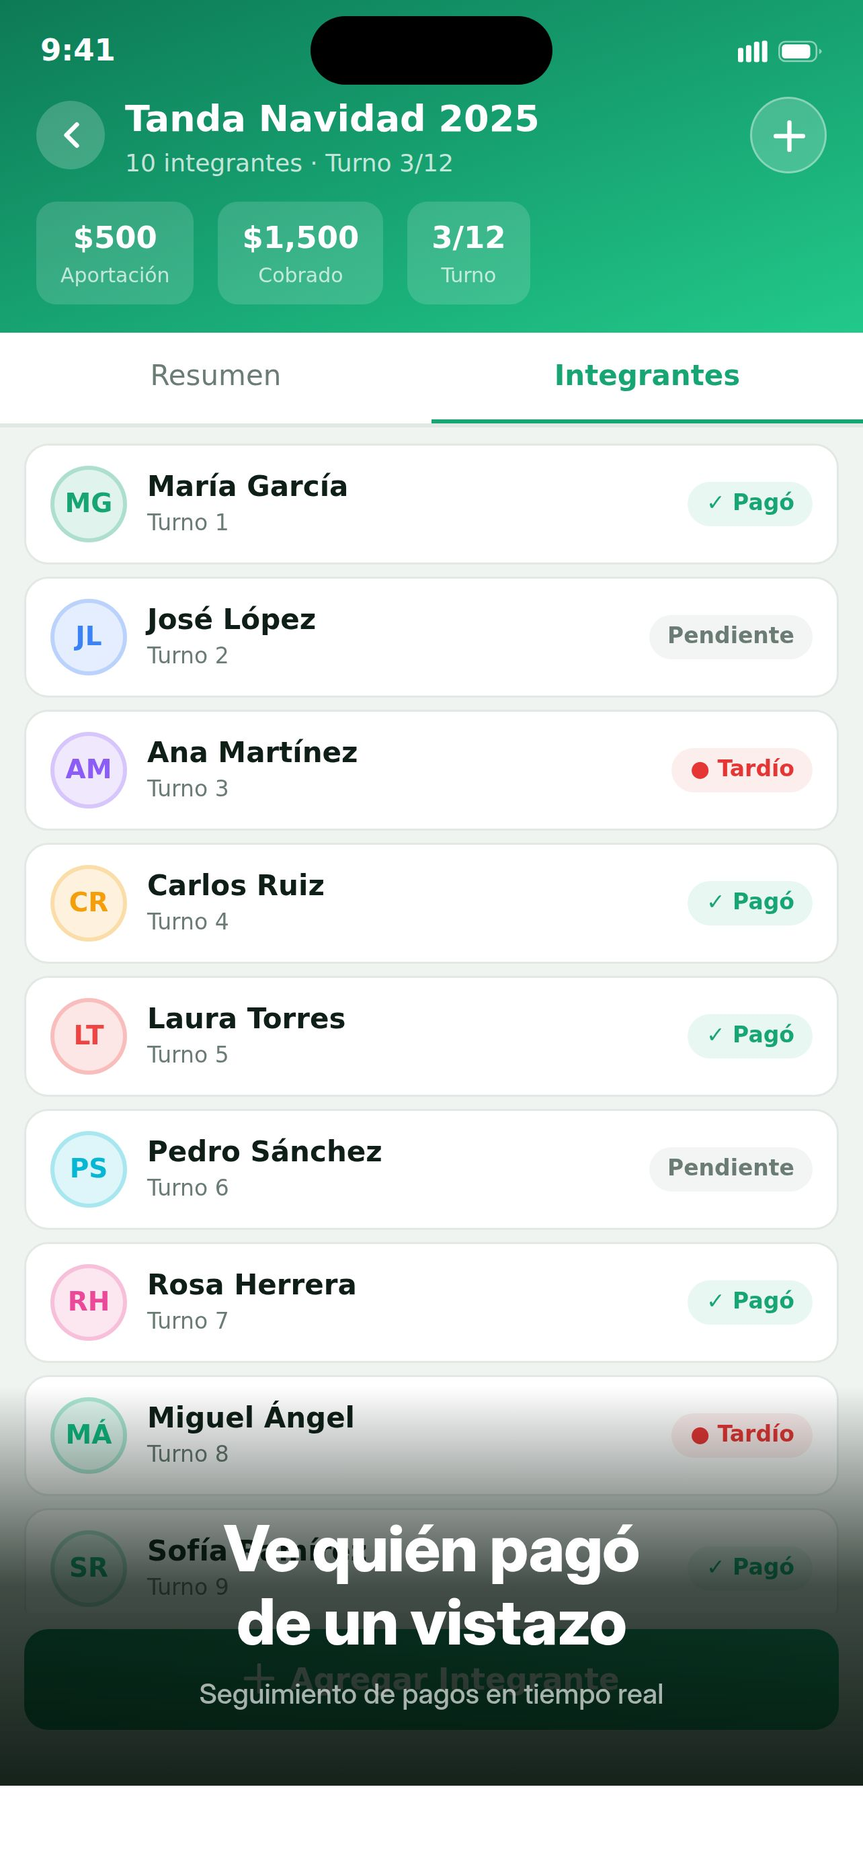
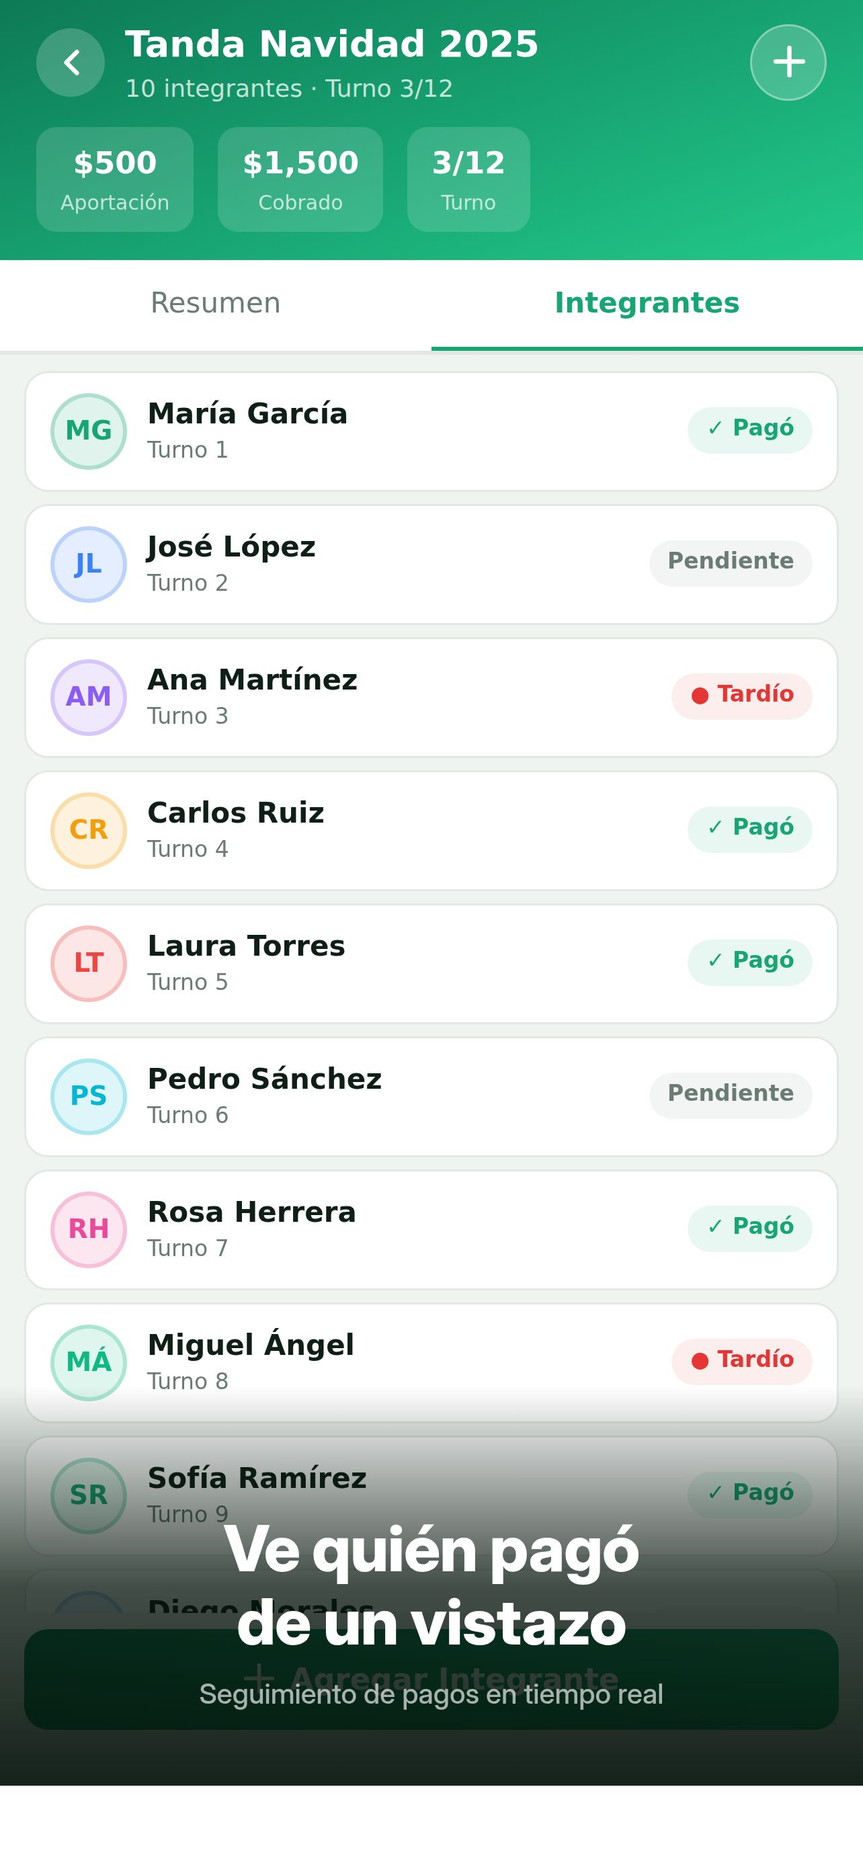
Fix app bugs and improve user account management and screenshots
Fixes a bug preventing "tanda" creation, updates screenshots to meet Apple's guidelines, and adds account deletion functionality.

Replit-Commit-Author: Agent
Replit-Commit-Session-Id: e019ea73-8e5f-4285-ade7-2ecf29f1a377
Replit-Commit-Checkpoint-Type: full_checkpoint
Replit-Commit-Event-Id: 5121498f-7e2a-498c-9c5b-404356310d39
Replit-Commit-Screenshot-Url: https://storage.googleapis.com/screenshot-production-us-central1/a28acc6e-3080-4341-9633-196d7060ff5c/e019ea73-8e5f-4285-ade7-2ecf29f1a377/ADmcMiI
Replit-Helium-Checkpoint-Created: true

diff --git a/artifacts/circletrack/app/(tabs)/settings.tsx b/artifacts/circletrack/app/(tabs)/settings.tsx
@@ -1,6 +1,6 @@
 import { useAuth, useUser } from "@clerk/clerk-expo";
 import { Ionicons } from "@expo/vector-icons";
-import React from "react";
+import React, { useState } from "react";
 import {
   Alert,
   Platform,
@@ -19,8 +19,9 @@ export default function SettingsScreen() {
   const colors = useColors();
   const insets = useSafeAreaInsets();
   const { lang, setLang, t } = useLang();
-  const { signOut } = useAuth();
+  const { signOut, getToken } = useAuth();
   const { user } = useUser();
+  const [isDeleting, setIsDeleting] = useState(false);
 
   const topPad = Platform.OS === "web" ? 67 : insets.top;
   const bottomPad = Platform.OS === "web" ? 34 : insets.bottom;
@@ -32,6 +33,31 @@ export default function SettingsScreen() {
         text: t("signOut"),
         style: "destructive",
         onPress: () => signOut(),
+      },
+    ]);
+  };
+
+  const handleDeleteAccount = () => {
+    Alert.alert(t("deleteAccount"), t("deleteAccountConfirm"), [
+      { text: t("cancelBtn"), style: "cancel" },
+      {
+        text: t("deleteAccount"),
+        style: "destructive",
+        onPress: async () => {
+          setIsDeleting(true);
+          try {
+            const token = await getToken();
+            const domain = process.env.EXPO_PUBLIC_DOMAIN;
+            await fetch(`https://${domain}/api/account`, {
+              method: "DELETE",
+              headers: token ? { Authorization: `Bearer ${token}` } : {},
+            });
+            await user?.delete();
+          } catch {
+            setIsDeleting(false);
+            Alert.alert(t("error"), t("deleteAccountError"));
+          }
+        },
       },
     ]);
   };
@@ -112,6 +138,25 @@ export default function SettingsScreen() {
             <Ionicons name="log-out-outline" size={20} color={colors.destructive} />
             <Text style={[styles.signOutText, { color: colors.destructive }]}>
               {t("signOut")}
+            </Text>
+          </Pressable>
+        </View>
+      )}
+
+      {user && (
+        <View style={styles.section}>
+          <Pressable
+            style={({ pressed }) => [
+              styles.deleteAccountBtn,
+              { borderColor: colors.destructive, backgroundColor: colors.destructive + "10" },
+              pressed && styles.pressed,
+            ]}
+            onPress={handleDeleteAccount}
+            disabled={isDeleting}
+          >
+            <Ionicons name="trash-outline" size={20} color={colors.destructive} />
+            <Text style={[styles.signOutText, { color: colors.destructive }]}>
+              {isDeleting ? "..." : t("deleteAccount")}
             </Text>
           </Pressable>
         </View>
@@ -204,6 +249,15 @@ function makeStyles(colors: ReturnType<typeof import("@/hooks/useColors").useCol
       padding: 16,
       borderRadius: 14,
       borderWidth: 1,
+    },
+    deleteAccountBtn: {
+      flexDirection: "row",
+      alignItems: "center",
+      justifyContent: "center",
+      gap: 8,
+      padding: 16,
+      borderRadius: 14,
+      borderWidth: 1.5,
     },
     signOutText: {
       fontSize: 16,

diff --git a/artifacts/mockup-sandbox/src/components/mockups/fresh-en-3.tsx b/artifacts/mockup-sandbox/src/components/mockups/fresh-en-3.tsx
@@ -27,14 +27,6 @@ export default function FreshEn3() {
     <div style={{ width: vw, height: vh, overflow: "hidden", position: "relative", background: bg }}>
       <div style={{ width: 428, height: innerH, transform: `scale(${scale})`, transformOrigin: "top left", fontFamily: "-apple-system,'SF Pro Display','Helvetica Neue',sans-serif", display: "flex", flexDirection: "column", overflow: "hidden" }}>
         <div style={{ background: "linear-gradient(160deg,#0d7a55 0%,#18a574 55%,#22c98a 100%)", flexShrink: 0 }}>
-          <div style={{ padding: "14px 20px 0", display: "flex", justifyContent: "space-between", alignItems: "center", position: "relative" }}>
-            <span style={{ fontSize: 15, fontWeight: 700, color: "#fff", zIndex: 2 }}>9:41</span>
-            <div style={{ position: "absolute", left: "50%", transform: "translateX(-50%)", width: 120, height: 34, background: "#000", borderRadius: 20, zIndex: 2 }} />
-            <div style={{ display: "flex", gap: 5, alignItems: "center", zIndex: 2 }}>
-              <svg width="15" height="11" viewBox="0 0 17 12" fill="none"><rect x="0" y="4" width="3" height="8" rx="1" fill="white"/><rect x="4.5" y="2.5" width="3" height="9.5" rx="1" fill="white"/><rect x="9" y="0.5" width="3" height="11.5" rx="1" fill="white"/><rect x="13.5" y="0" width="3" height="12" rx="1" fill="white"/></svg>
-              <svg width="22" height="11" viewBox="0 0 25 12" fill="none"><rect x="0.5" y="0.5" width="21" height="11" rx="3.5" stroke="white" strokeOpacity="0.5"/><rect x="2" y="2" width="16" height="8" rx="2" fill="white"/><path d="M23 4.5V7.5C23.8 7.2 24.5 6.5 24.5 6C24.5 5.5 23.8 4.8 23 4.5Z" fill="white" fillOpacity="0.5"/></svg>
-            </div>
-          </div>
           <div style={{ padding: "8px 18px 14px", display: "flex", alignItems: "center", gap: 10 }}>
             <div style={{ width: 34, height: 34, borderRadius: 17, background: "rgba(255,255,255,0.2)", display: "flex", alignItems: "center", justifyContent: "center" }}>
               <svg width="9" height="14" viewBox="0 0 10 16" fill="none"><path d="M8 2L2 8L8 14" stroke="white" strokeWidth="2.5" strokeLinecap="round" strokeLinejoin="round"/></svg>

diff --git a/artifacts/mockup-sandbox/src/components/mockups/fresh-es-3.tsx b/artifacts/mockup-sandbox/src/components/mockups/fresh-es-3.tsx
@@ -27,14 +27,6 @@ export default function FreshEs3() {
     <div style={{ width: vw, height: vh, overflow: "hidden", position: "relative", background: bg }}>
       <div style={{ width: 428, height: innerH, transform: `scale(${scale})`, transformOrigin: "top left", fontFamily: "-apple-system,'SF Pro Display','Helvetica Neue',sans-serif", display: "flex", flexDirection: "column", overflow: "hidden" }}>
         <div style={{ background: "linear-gradient(160deg,#0d7a55 0%,#18a574 55%,#22c98a 100%)", flexShrink: 0 }}>
-          <div style={{ padding: "14px 20px 0", display: "flex", justifyContent: "space-between", alignItems: "center", position: "relative" }}>
-            <span style={{ fontSize: 15, fontWeight: 700, color: "#fff", zIndex: 2 }}>9:41</span>
-            <div style={{ position: "absolute", left: "50%", transform: "translateX(-50%)", width: 120, height: 34, background: "#000", borderRadius: 20, zIndex: 2 }} />
-            <div style={{ display: "flex", gap: 5, alignItems: "center", zIndex: 2 }}>
-              <svg width="15" height="11" viewBox="0 0 17 12" fill="none"><rect x="0" y="4" width="3" height="8" rx="1" fill="white"/><rect x="4.5" y="2.5" width="3" height="9.5" rx="1" fill="white"/><rect x="9" y="0.5" width="3" height="11.5" rx="1" fill="white"/><rect x="13.5" y="0" width="3" height="12" rx="1" fill="white"/></svg>
-              <svg width="22" height="11" viewBox="0 0 25 12" fill="none"><rect x="0.5" y="0.5" width="21" height="11" rx="3.5" stroke="white" strokeOpacity="0.5"/><rect x="2" y="2" width="16" height="8" rx="2" fill="white"/><path d="M23 4.5V7.5C23.8 7.2 24.5 6.5 24.5 6C24.5 5.5 23.8 4.8 23 4.5Z" fill="white" fillOpacity="0.5"/></svg>
-            </div>
-          </div>
           <div style={{ padding: "8px 18px 14px", display: "flex", alignItems: "center", gap: 10 }}>
             <div style={{ width: 34, height: 34, borderRadius: 17, background: "rgba(255,255,255,0.2)", display: "flex", alignItems: "center", justifyContent: "center" }}>
               <svg width="9" height="14" viewBox="0 0 10 16" fill="none"><path d="M8 2L2 8L8 14" stroke="white" strokeWidth="2.5" strokeLinecap="round" strokeLinejoin="round"/></svg>

diff --git a/artifacts/mockup-sandbox/src/components/mockups/fresh-en-2.tsx b/artifacts/mockup-sandbox/src/components/mockups/fresh-en-2.tsx
@@ -28,14 +28,6 @@ export default function FreshEn2() {
     <div style={{ width: vw, height: vh, overflow: "hidden", position: "relative", background: bg }}>
       <div style={{ width: 428, height: innerH, transform: `scale(${scale})`, transformOrigin: "top left", fontFamily: "-apple-system,'SF Pro Display','Helvetica Neue',sans-serif", display: "flex", flexDirection: "column", overflow: "hidden" }}>
         <div style={{ background: "linear-gradient(160deg,#0d7a55 0%,#18a574 55%,#22c98a 100%)", flexShrink: 0 }}>
-          <div style={{ padding: "14px 20px 0", display: "flex", justifyContent: "space-between", alignItems: "center", position: "relative" }}>
-            <span style={{ fontSize: 15, fontWeight: 700, color: "#fff", zIndex: 2 }}>9:41</span>
-            <div style={{ position: "absolute", left: "50%", transform: "translateX(-50%)", width: 120, height: 34, background: "#000", borderRadius: 20, zIndex: 2 }} />
-            <div style={{ display: "flex", gap: 5, alignItems: "center", zIndex: 2 }}>
-              <svg width="15" height="11" viewBox="0 0 17 12" fill="none"><rect x="0" y="4" width="3" height="8" rx="1" fill="white"/><rect x="4.5" y="2.5" width="3" height="9.5" rx="1" fill="white"/><rect x="9" y="0.5" width="3" height="11.5" rx="1" fill="white"/><rect x="13.5" y="0" width="3" height="12" rx="1" fill="white"/></svg>
-              <svg width="22" height="11" viewBox="0 0 25 12" fill="none"><rect x="0.5" y="0.5" width="21" height="11" rx="3.5" stroke="white" strokeOpacity="0.5"/><rect x="2" y="2" width="16" height="8" rx="2" fill="white"/><path d="M23 4.5V7.5C23.8 7.2 24.5 6.5 24.5 6C24.5 5.5 23.8 4.8 23 4.5Z" fill="white" fillOpacity="0.5"/></svg>
-            </div>
-          </div>
           <div style={{ padding: "8px 18px 0", display: "flex", alignItems: "center", gap: 10 }}>
             <div style={{ width: 34, height: 34, borderRadius: 17, background: "rgba(255,255,255,0.2)", display: "flex", alignItems: "center", justifyContent: "center" }}>
               <svg width="9" height="14" viewBox="0 0 10 16" fill="none"><path d="M8 2L2 8L8 14" stroke="white" strokeWidth="2.5" strokeLinecap="round" strokeLinejoin="round"/></svg>

diff --git a/artifacts/mockup-sandbox/src/components/mockups/fresh-es-2.tsx b/artifacts/mockup-sandbox/src/components/mockups/fresh-es-2.tsx
@@ -28,14 +28,6 @@ export default function FreshEs2() {
     <div style={{ width: vw, height: vh, overflow: "hidden", position: "relative", background: bg }}>
       <div style={{ width: 428, height: innerH, transform: `scale(${scale})`, transformOrigin: "top left", fontFamily: "-apple-system,'SF Pro Display','Helvetica Neue',sans-serif", display: "flex", flexDirection: "column", overflow: "hidden" }}>
         <div style={{ background: "linear-gradient(160deg,#0d7a55 0%,#18a574 55%,#22c98a 100%)", flexShrink: 0 }}>
-          <div style={{ padding: "14px 20px 0", display: "flex", justifyContent: "space-between", alignItems: "center", position: "relative" }}>
-            <span style={{ fontSize: 15, fontWeight: 700, color: "#fff", zIndex: 2 }}>9:41</span>
-            <div style={{ position: "absolute", left: "50%", transform: "translateX(-50%)", width: 120, height: 34, background: "#000", borderRadius: 20, zIndex: 2 }} />
-            <div style={{ display: "flex", gap: 5, alignItems: "center", zIndex: 2 }}>
-              <svg width="15" height="11" viewBox="0 0 17 12" fill="none"><rect x="0" y="4" width="3" height="8" rx="1" fill="white"/><rect x="4.5" y="2.5" width="3" height="9.5" rx="1" fill="white"/><rect x="9" y="0.5" width="3" height="11.5" rx="1" fill="white"/><rect x="13.5" y="0" width="3" height="12" rx="1" fill="white"/></svg>
-              <svg width="22" height="11" viewBox="0 0 25 12" fill="none"><rect x="0.5" y="0.5" width="21" height="11" rx="3.5" stroke="white" strokeOpacity="0.5"/><rect x="2" y="2" width="16" height="8" rx="2" fill="white"/><path d="M23 4.5V7.5C23.8 7.2 24.5 6.5 24.5 6C24.5 5.5 23.8 4.8 23 4.5Z" fill="white" fillOpacity="0.5"/></svg>
-            </div>
-          </div>
           <div style={{ padding: "8px 18px 0", display: "flex", alignItems: "center", gap: 10 }}>
             <div style={{ width: 34, height: 34, borderRadius: 17, background: "rgba(255,255,255,0.2)", display: "flex", alignItems: "center", justifyContent: "center" }}>
               <svg width="9" height="14" viewBox="0 0 10 16" fill="none"><path d="M8 2L2 8L8 14" stroke="white" strokeWidth="2.5" strokeLinecap="round" strokeLinejoin="round"/></svg>

diff --git a/artifacts/mockup-sandbox/src/components/mockups/fresh-en-4.tsx b/artifacts/mockup-sandbox/src/components/mockups/fresh-en-4.tsx
@@ -22,14 +22,6 @@ export default function FreshEn4() {
     <div style={{ width: vw, height: vh, overflow: "hidden", position: "relative", background: bg }}>
       <div style={{ width: 428, height: innerH, transform: `scale(${scale})`, transformOrigin: "top left", fontFamily: "-apple-system,'SF Pro Display','Helvetica Neue',sans-serif", display: "flex", flexDirection: "column", overflow: "hidden" }}>
         <div style={{ background: "linear-gradient(160deg,#0d7a55 0%,#18a574 55%,#22c98a 100%)", flexShrink: 0 }}>
-          <div style={{ padding: "14px 20px 0", display: "flex", justifyContent: "space-between", alignItems: "center", position: "relative" }}>
-            <span style={{ fontSize: 15, fontWeight: 700, color: "#fff", zIndex: 2 }}>9:41</span>
-            <div style={{ position: "absolute", left: "50%", transform: "translateX(-50%)", width: 120, height: 34, background: "#000", borderRadius: 20, zIndex: 2 }} />
-            <div style={{ display: "flex", gap: 5, alignItems: "center", zIndex: 2 }}>
-              <svg width="15" height="11" viewBox="0 0 17 12" fill="none"><rect x="0" y="4" width="3" height="8" rx="1" fill="white"/><rect x="4.5" y="2.5" width="3" height="9.5" rx="1" fill="white"/><rect x="9" y="0.5" width="3" height="11.5" rx="1" fill="white"/><rect x="13.5" y="0" width="3" height="12" rx="1" fill="white"/></svg>
-              <svg width="22" height="11" viewBox="0 0 25 12" fill="none"><rect x="0.5" y="0.5" width="21" height="11" rx="3.5" stroke="white" strokeOpacity="0.5"/><rect x="2" y="2" width="16" height="8" rx="2" fill="white"/><path d="M23 4.5V7.5C23.8 7.2 24.5 6.5 24.5 6C24.5 5.5 23.8 4.8 23 4.5Z" fill="white" fillOpacity="0.5"/></svg>
-            </div>
-          </div>
           <div style={{ padding: "8px 18px 0", display: "flex", alignItems: "center", gap: 12 }}>
             <div style={{ width: 44, height: 44, borderRadius: 22, background: "rgba(255,255,255,0.2)", display: "flex", alignItems: "center", justifyContent: "center", fontSize: 16, fontWeight: 800, color: "#fff" }}>JL</div>
             <div>

diff --git a/artifacts/mockup-sandbox/src/components/mockups/fresh-es-4.tsx b/artifacts/mockup-sandbox/src/components/mockups/fresh-es-4.tsx
@@ -22,14 +22,6 @@ export default function FreshEs4() {
     <div style={{ width: vw, height: vh, overflow: "hidden", position: "relative", background: bg }}>
       <div style={{ width: 428, height: innerH, transform: `scale(${scale})`, transformOrigin: "top left", fontFamily: "-apple-system,'SF Pro Display','Helvetica Neue',sans-serif", display: "flex", flexDirection: "column", overflow: "hidden" }}>
         <div style={{ background: "linear-gradient(160deg,#0d7a55 0%,#18a574 55%,#22c98a 100%)", flexShrink: 0 }}>
-          <div style={{ padding: "14px 20px 0", display: "flex", justifyContent: "space-between", alignItems: "center", position: "relative" }}>
-            <span style={{ fontSize: 15, fontWeight: 700, color: "#fff", zIndex: 2 }}>9:41</span>
-            <div style={{ position: "absolute", left: "50%", transform: "translateX(-50%)", width: 120, height: 34, background: "#000", borderRadius: 20, zIndex: 2 }} />
-            <div style={{ display: "flex", gap: 5, alignItems: "center", zIndex: 2 }}>
-              <svg width="15" height="11" viewBox="0 0 17 12" fill="none"><rect x="0" y="4" width="3" height="8" rx="1" fill="white"/><rect x="4.5" y="2.5" width="3" height="9.5" rx="1" fill="white"/><rect x="9" y="0.5" width="3" height="11.5" rx="1" fill="white"/><rect x="13.5" y="0" width="3" height="12" rx="1" fill="white"/></svg>
-              <svg width="22" height="11" viewBox="0 0 25 12" fill="none"><rect x="0.5" y="0.5" width="21" height="11" rx="3.5" stroke="white" strokeOpacity="0.5"/><rect x="2" y="2" width="16" height="8" rx="2" fill="white"/><path d="M23 4.5V7.5C23.8 7.2 24.5 6.5 24.5 6C24.5 5.5 23.8 4.8 23 4.5Z" fill="white" fillOpacity="0.5"/></svg>
-            </div>
-          </div>
           <div style={{ padding: "8px 18px 0", display: "flex", alignItems: "center", gap: 12 }}>
             <div style={{ width: 44, height: 44, borderRadius: 22, background: "rgba(255,255,255,0.2)", display: "flex", alignItems: "center", justifyContent: "center", fontSize: 18, fontWeight: 800, color: "#fff" }}>JL</div>
             <div>

diff --git a/artifacts/mockup-sandbox/src/components/mockups/fresh-en-1.tsx b/artifacts/mockup-sandbox/src/components/mockups/fresh-en-1.tsx
@@ -21,14 +21,6 @@ export default function FreshEn1() {
     <div style={{ width: vw, height: vh, overflow: "hidden", position: "relative", background: bg }}>
       <div style={{ width: 428, height: innerH, transform: `scale(${scale})`, transformOrigin: "top left", fontFamily: "-apple-system,'SF Pro Display','Helvetica Neue',sans-serif", display: "flex", flexDirection: "column", overflow: "hidden" }}>
         <div style={{ background: "linear-gradient(160deg,#0d7a55 0%,#18a574 55%,#22c98a 100%)", flexShrink: 0 }}>
-          <div style={{ padding: "14px 20px 0", display: "flex", justifyContent: "space-between", alignItems: "center" }}>
-            <span style={{ fontSize: 15, fontWeight: 700, color: "#fff" }}>9:41</span>
-            <div style={{ position: "absolute", left: "50%", transform: "translateX(-50%)", width: 120, height: 34, background: "#000", borderRadius: 20 }} />
-            <div style={{ display: "flex", gap: 5, alignItems: "center" }}>
-              <svg width="15" height="11" viewBox="0 0 17 12" fill="none"><rect x="0" y="4" width="3" height="8" rx="1" fill="white"/><rect x="4.5" y="2.5" width="3" height="9.5" rx="1" fill="white"/><rect x="9" y="0.5" width="3" height="11.5" rx="1" fill="white"/><rect x="13.5" y="0" width="3" height="12" rx="1" fill="white"/></svg>
-              <svg width="22" height="11" viewBox="0 0 25 12" fill="none"><rect x="0.5" y="0.5" width="21" height="11" rx="3.5" stroke="white" strokeOpacity="0.5"/><rect x="2" y="2" width="16" height="8" rx="2" fill="white"/><path d="M23 4.5V7.5C23.8 7.2 24.5 6.5 24.5 6C24.5 5.5 23.8 4.8 23 4.5Z" fill="white" fillOpacity="0.5"/></svg>
-            </div>
-          </div>
           <div style={{ padding: "10px 18px 0", display: "flex", justifyContent: "space-between", alignItems: "center" }}>
             <div>
               <div style={{ fontSize: 26, fontWeight: 800, color: "#fff", letterSpacing: -0.5 }}>My Circles</div>

diff --git a/artifacts/mockup-sandbox/src/components/mockups/fresh-es-1.tsx b/artifacts/mockup-sandbox/src/components/mockups/fresh-es-1.tsx
@@ -21,14 +21,6 @@ export default function FreshEs1() {
     <div style={{ width: vw, height: vh, overflow: "hidden", position: "relative", background: bg }}>
       <div style={{ width: 428, height: innerH, transform: `scale(${scale})`, transformOrigin: "top left", fontFamily: "-apple-system,'SF Pro Display','Helvetica Neue',sans-serif", display: "flex", flexDirection: "column", overflow: "hidden" }}>
         <div style={{ background: "linear-gradient(160deg,#0d7a55 0%,#18a574 55%,#22c98a 100%)", flexShrink: 0 }}>
-          <div style={{ padding: "14px 20px 0", display: "flex", justifyContent: "space-between", alignItems: "center" }}>
-            <span style={{ fontSize: 15, fontWeight: 700, color: "#fff" }}>9:41</span>
-            <div style={{ position: "absolute", left: "50%", transform: "translateX(-50%)", width: 120, height: 34, background: "#000", borderRadius: 20 }} />
-            <div style={{ display: "flex", gap: 5, alignItems: "center" }}>
-              <svg width="15" height="11" viewBox="0 0 17 12" fill="none"><rect x="0" y="4" width="3" height="8" rx="1" fill="white"/><rect x="4.5" y="2.5" width="3" height="9.5" rx="1" fill="white"/><rect x="9" y="0.5" width="3" height="11.5" rx="1" fill="white"/><rect x="13.5" y="0" width="3" height="12" rx="1" fill="white"/></svg>
-              <svg width="22" height="11" viewBox="0 0 25 12" fill="none"><rect x="0.5" y="0.5" width="21" height="11" rx="3.5" stroke="white" strokeOpacity="0.5"/><rect x="2" y="2" width="16" height="8" rx="2" fill="white"/><path d="M23 4.5V7.5C23.8 7.2 24.5 6.5 24.5 6C24.5 5.5 23.8 4.8 23 4.5Z" fill="white" fillOpacity="0.5"/></svg>
-            </div>
-          </div>
           <div style={{ padding: "10px 18px 0", display: "flex", justifyContent: "space-between", alignItems: "center" }}>
             <div>
               <div style={{ fontSize: 26, fontWeight: 800, color: "#fff", letterSpacing: -0.5 }}>Mis Tandas</div>

diff --git a/artifacts/api-server/src/routes/roscas/index.ts b/artifacts/api-server/src/routes/roscas/index.ts
@@ -1,5 +1,5 @@
 import { Router, type IRouter } from "express";
-import { eq, and, isNull } from "drizzle-orm";
+import { eq, and, isNull, inArray } from "drizzle-orm";
 import { db, roscasTable, membersTable, paymentsTable } from "@workspace/db";
 import {
   CreateRoscaBody,
@@ -513,6 +513,21 @@ router.get("/roscas/:id/member-ratings", async (req, res): Promise<void> => {
     return { memberId: m.id, memberName: m.name, shares: m.shares, totalPayments: mp.length, onTimePayments: onTime, latePayments: late, missedPayments: missed, reliabilityScore: score, rating };
   });
   res.json(ratings);
+});
+
+// Delete account — remove all user data
+router.delete("/account", async (req: any, res): Promise<void> => {
+  const userId = req.userId;
+  const userRoscas = await db.select({ id: roscasTable.id })
+    .from(roscasTable)
+    .where(eq(roscasTable.userId, userId));
+  if (userRoscas.length > 0) {
+    const roscaIds = userRoscas.map(r => r.id);
+    await db.delete(paymentsTable).where(inArray(paymentsTable.roscaId, roscaIds));
+    await db.delete(membersTable).where(inArray(membersTable.roscaId, roscaIds));
+    await db.delete(roscasTable).where(eq(roscasTable.userId, userId));
+  }
+  res.status(204).end();
 });
 
 export default router;

diff --git a/artifacts/circletrack/constants/i18n.ts b/artifacts/circletrack/constants/i18n.ts
@@ -95,6 +95,10 @@ export const translations = {
     paymentStatus: "Estado de pago",
     exportCircle: "Exportar",
     importCircle: "Importar",
+    createError: "No se pudo crear la tanda. Intenta de nuevo.",
+    deleteAccount: "Eliminar cuenta",
+    deleteAccountConfirm: "¿Eliminar tu cuenta permanentemente? Esta acción no se puede deshacer y todos tus datos serán eliminados.",
+    deleteAccountError: "No se pudo eliminar la cuenta. Intenta de nuevo.",
   },
   en: {
     appName: "CircleTrack",
@@ -190,6 +194,10 @@ export const translations = {
     paymentStatus: "Payment status",
     exportCircle: "Export",
     importCircle: "Import",
+    createError: "Could not create circle. Please try again.",
+    deleteAccount: "Delete Account",
+    deleteAccountConfirm: "Permanently delete your account? This cannot be undone and all your data will be deleted.",
+    deleteAccountError: "Could not delete account. Please try again.",
   },
 };
 

diff --git a/artifacts/circletrack/app/circle/new.tsx b/artifacts/circletrack/app/circle/new.tsx
@@ -69,7 +69,7 @@ export default function NewCircleScreen() {
           router.back();
         },
         onError: () => {
-          Alert.alert(t("error"), "No se pudo crear la tanda.");
+          Alert.alert(t("error"), t("createError"));
         },
       }
     );
